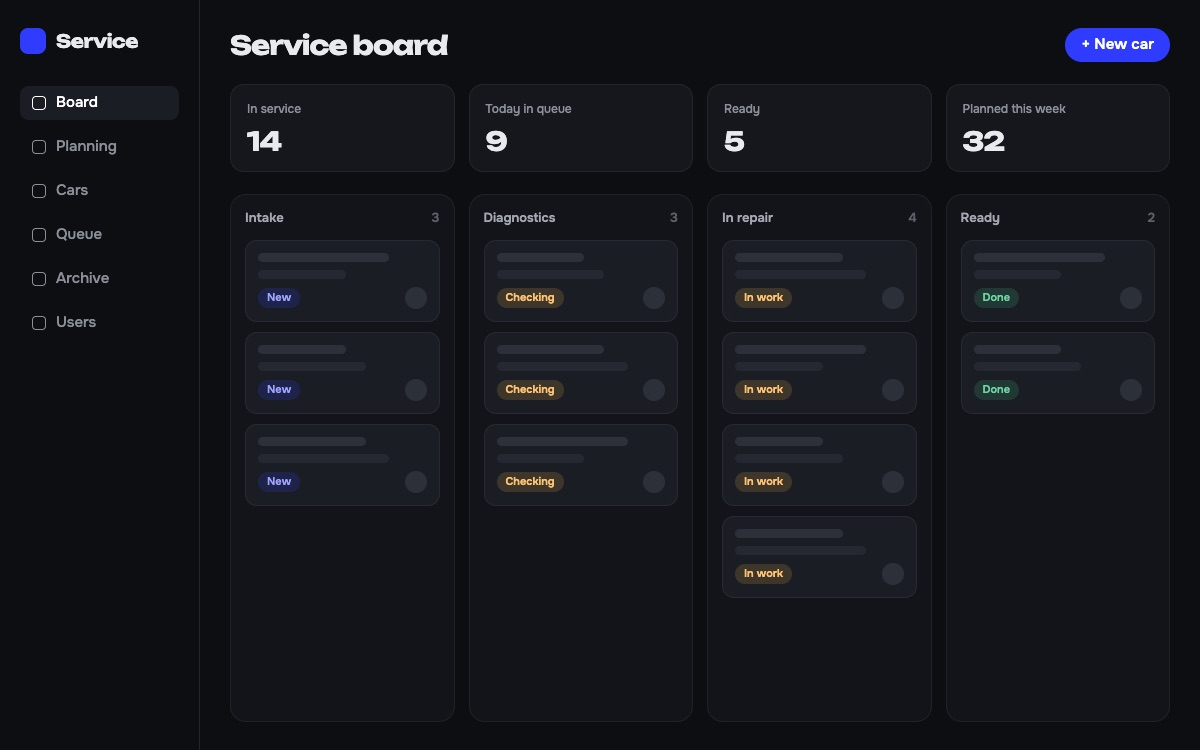
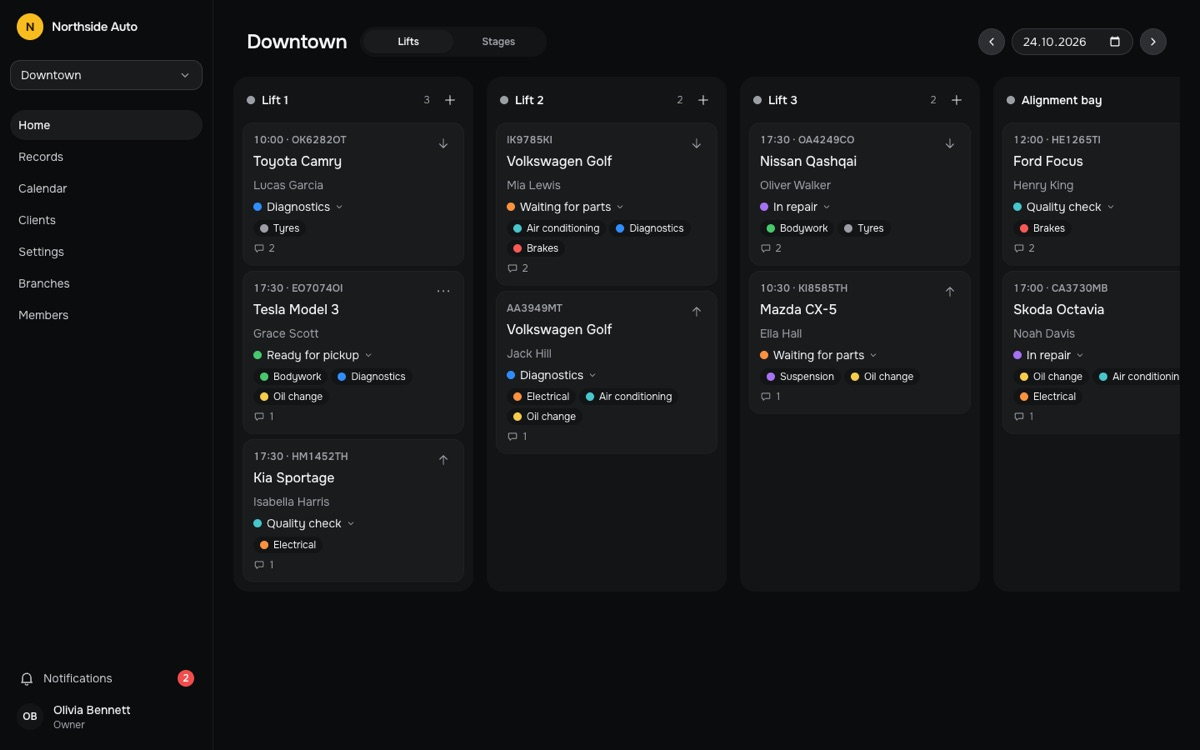
Auto service project: live demo link and real screenshot

diff --git a/src/components/Projects.tsx b/src/components/Projects.tsx
@@ -2,28 +2,24 @@ import { focusRing, SectionTitle } from '@/components/Section'
 import { useLang } from '@/lang'
 
 // Texts (name, role, one-line summary, achievements) live under projects.items.<id> in the locales.
-// `image` is 1200×750 in public/projects: a screenshot, or a drawn illustration when the
-// product has no presentable UI yet (`illustration: true` changes the alt text).
+// `image` is a 1200×750 screenshot in public/projects.
 const projects = [
   {
     id: 'unifiedone',
     url: 'https://app.unifiedone.com/signup',
     image: '/projects/unifiedone.jpg',
-    illustration: false,
     stack: ['Vue', 'Vuetify', 'Docker'],
   },
   {
     id: 'autoservice',
-    url: null,
+    url: 'https://repair-service-admin.vercel.app/',
     image: '/projects/autoservice.jpg',
-    illustration: true,
     stack: ['Vue 3', 'Vuetify', 'Pinia', 'TypeScript', 'Node.js', 'Express', 'PostgreSQL', 'WebSocket', 'Docker'],
   },
   {
     id: 'vibewaller',
     url: 'https://app.vibewaller.xyz/',
     image: '/projects/vibewaller.jpg',
-    illustration: false,
     stack: ['Vue 3', 'TypeScript', 'Tailwind CSS', 'Chart.js', 'TanStack Query', 'Supabase', 'Vitest', 'Docker'],
   },
 ] as const
@@ -42,7 +38,7 @@ export function Projects() {
           const visual = (
             <img
               src={project.image}
-              alt={`${project.illustration ? t.projects.illustration : t.projects.shot} ${text.name}`}
+              alt={`${t.projects.shot} ${text.name}`}
               width={1200}
               height={750}
               loading="lazy"

diff --git a/CLAUDE.md b/CLAUDE.md
@@ -37,7 +37,7 @@ Current direction: agency / Awwwards style, chosen by the user. Light page `#ece
 - **Prerender + hydration.** The page is rendered to static HTML at build time, and [src/main.tsx](src/main.tsx) hydrates it. The server snapshot is always English, and the stored language applies after hydration. Anything that touches `window`, `localStorage`, or `document` must run inside an effect or event handler, never at module level or during render, or the SSR build breaks. `.js [data-reveal]` hides headings only when JS runs (the `js` class is set inline in `index.html`).
 - **Data outside the locales:**
   - Job ids, companies, and dates live in [src/components/jobs.ts](src/components/jobs.ts), ongoing first, then newest first. Their roles and bullets are keyed by job id under `experience` in the locale files.
-  - Projects live in two places. [src/components/Projects.tsx](src/components/Projects.tsx) has an array with each project's id, url, stack, and optional screenshot. The text (name, role, one-line summary, achievements) lives under `projects.items.<id>` in the locale files. Screenshots are 1200×750 files in `public/projects/`, and `.gitignore` has explicit exceptions for them. If a product has no presentable UI yet, a drawn illustration is used instead (`illustration: true`).
+  - Projects live in two places. [src/components/Projects.tsx](src/components/Projects.tsx) has an array with each project's id, url, stack, and optional screenshot. The text (name, role, one-line summary, achievements) lives under `projects.items.<id>` in the locale files. Screenshots are 1200×750 files in `public/projects/`, and `.gitignore` has explicit exceptions for them.
   - The stack list is a plain array in [src/components/TechStack.tsx](src/components/TechStack.tsx), and the hero contacts are an array in [src/components/HeroSection.tsx](src/components/HeroSection.tsx).
 - **Shared UI.** `focusRing` and `SectionTitle` live in [src/components/Section.tsx](src/components/Section.tsx).
 - **Theme tokens** (`page`, `ink`, `muted`, `rule`, `accent`, `accent-soft`, `font-display`) live in `@theme` in [src/styles/global.css](src/styles/global.css). There is one color scheme.
